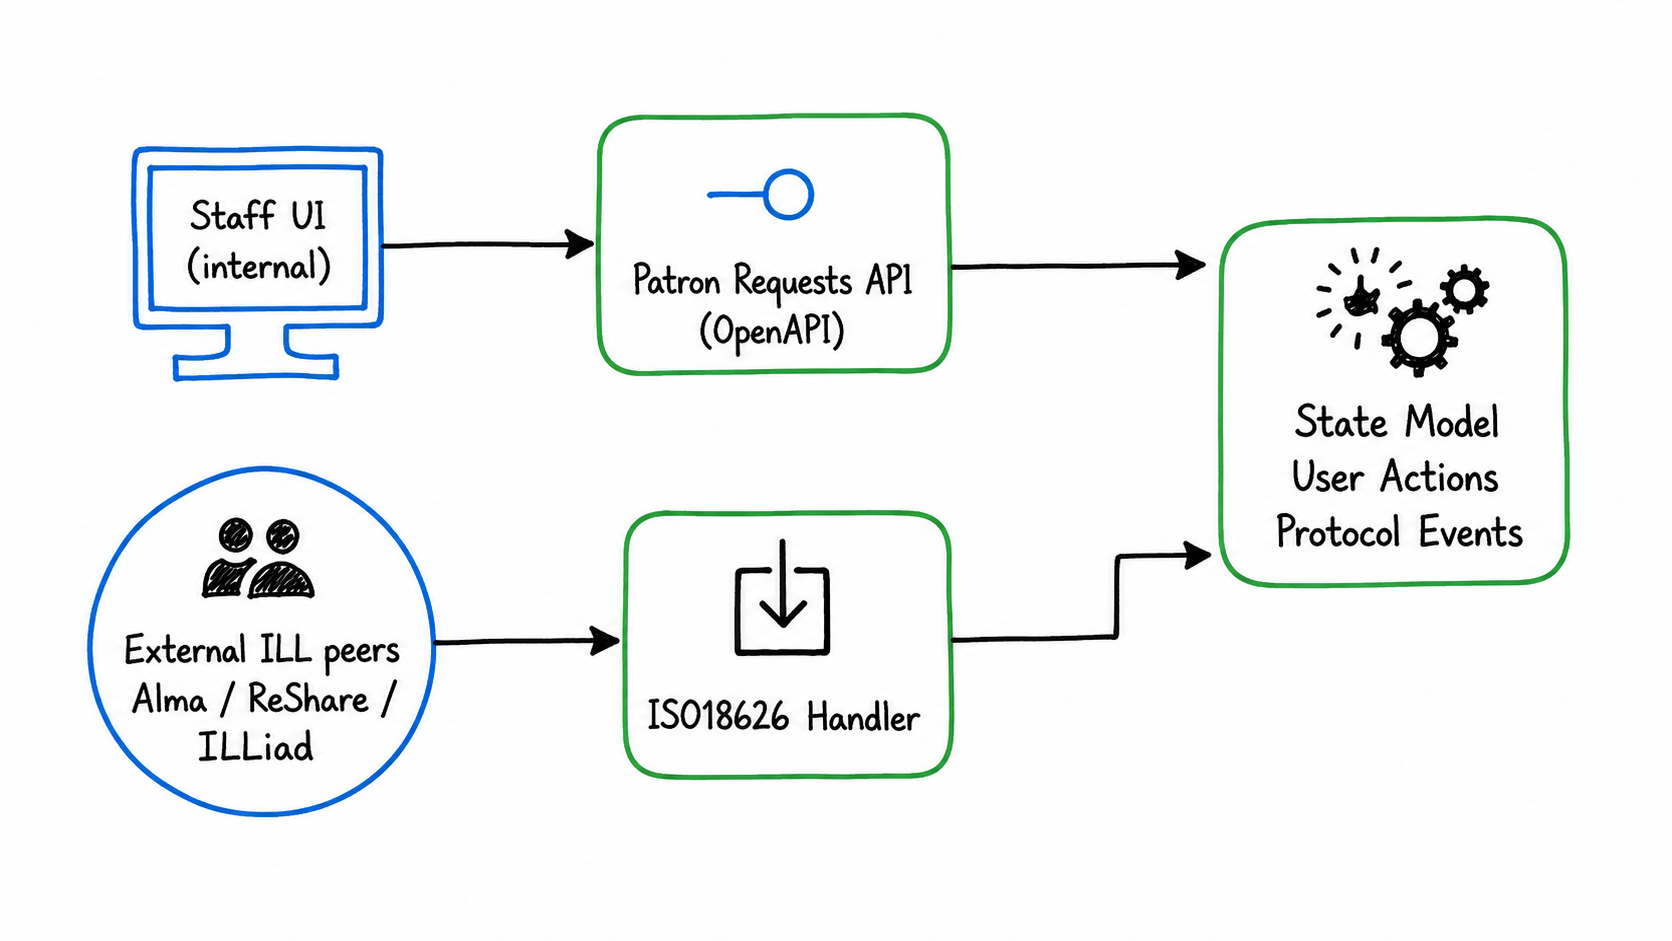
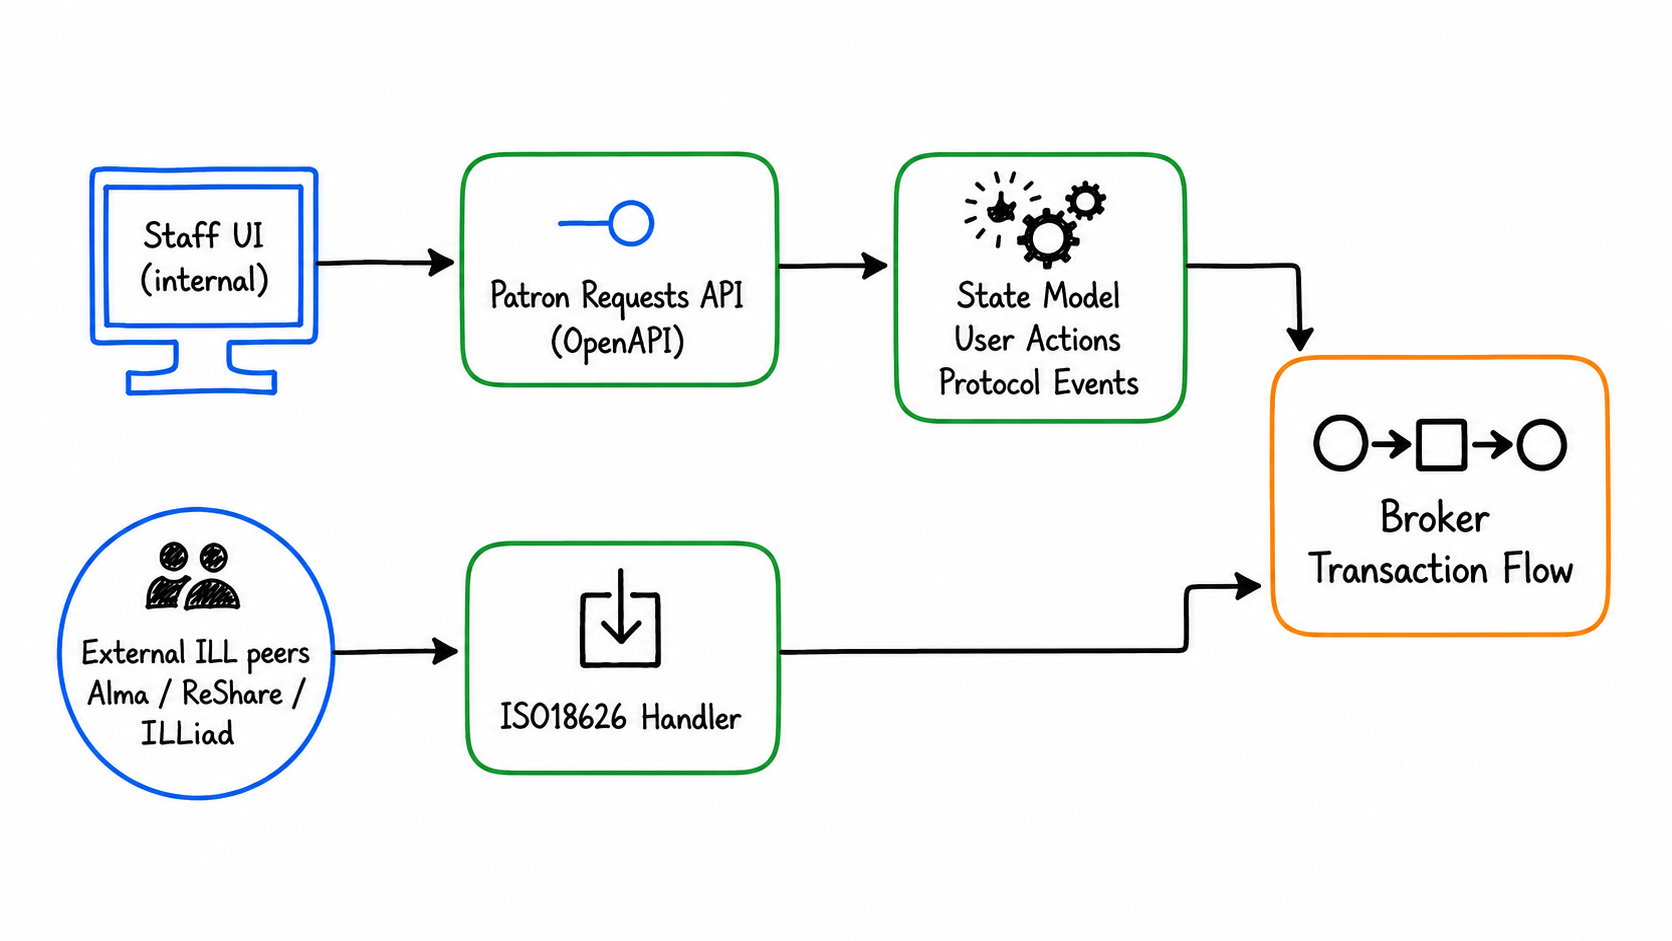
Update

Changed region(s): [[0.0311, 0.0925, 0.9641, 0.8937], [0.2177, 0.5239, 0.2488, 0.5855], [0.1866, 0.8321, 0.2177, 0.8629]]

diff --git a/wolfcon/WolfCON-2026-ReShare-first-pass.md b/wolfcon/WolfCON-2026-ReShare-first-pass.md
@@ -25,7 +25,7 @@ Last year we presented CrossLink as a standards-based broker. This year the brok
 - Integrations across diverse library systems
 - Years of knowledge about the happy path—and every exception
 
-> We are replacing an implementation, not starting the product over.
+> We are replacing an implementation, not the product.
 
 ::: notes
 Start from continuity and success. Legacy ReShare proved that the community service model works. The redesign preserves that accumulated service knowledge.
@@ -52,7 +52,7 @@ The original choices accelerated early delivery and got ReShare into production.
 ## Preserve
 
 - ILS/LSP neutrality
-- ISO 18626 and NCIP
+- First class ISO 18626 and NCIP
 - Borrowing and lending workflows
 - Consortial policy and supplier selection
 - Multi-tenant operation
@@ -146,7 +146,7 @@ Directory information and consortium policy guide supplier resolution. Discovery
 
 :::::::::::::: {.columns}
 ::: {.column width="47%"}
-## Open interfaces
+## Use open interfaces
 
 - **ISO 18626** — peer ILL messages
 - **NCIP** — patron and circulation operations
@@ -154,7 +154,7 @@ Directory information and consortium policy guide supplier resolution. Discovery
 - **OpenAPI JSON** — internal clients and staff UI
 :::
 ::: {.column width="47%"}
-## Keep them honest
+## Keep them compliant
 
 - Schema-generated protocol models
 - Generated API types and routing contracts
